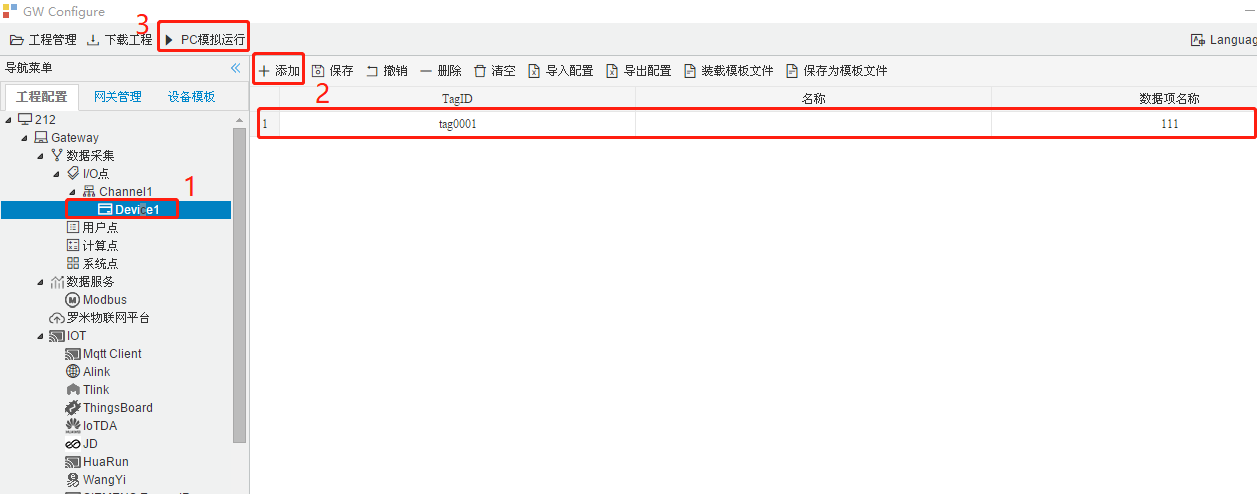
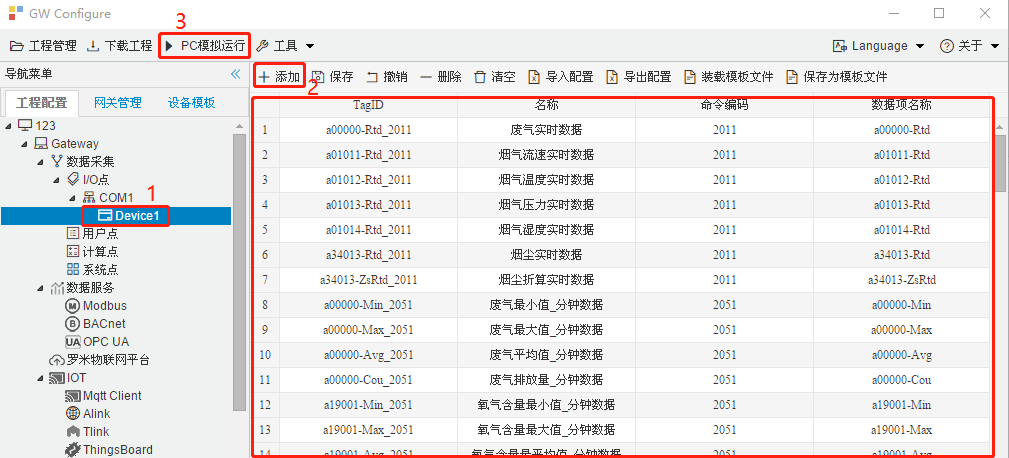
更新

diff --git a/通用标准/ModbusRTUClient/modbus点表编辑.md b/通用标准/ModbusRTUClient/modbus点表编辑.md
@@ -19,36 +19,50 @@
   - 4X (Holding Register) 模拟量、**支持读写**
 
   
-  | 功能码 | 名称           | 支持数据类型                                   | 对应Modbus数据区 |
-  | ------ | -------------- | ---------------------------------------------- | ---------------- |
-  | 0x01   | 读线圈状态     | bool                                           | 0X               |
-  | 0x02   | 读取输入状态   | bool                                           | 1X               |
-  | 0x03   | 读取保持寄存器 | bit、int8、int16、int32、int64、float、double  | 4X               |
-  | 0x04   | 读取输入寄存器 | bit、int8、int16、int32、int64、float、double  | 3X               |
-  | 0x05   | 强置单线圈     | bool                                           | 0x               |
-  | 0x06   | 预置单寄存器   | bit、int8、int16、int32、int64、float、double  | 4x               |
-  | 0x0F   | 强置多线圈     | bool                                           | 0x               |
-  | 0x10   | 强置多寄存器   | bit、int8、int16、int32、int64、float、double  | 4x               |
+  | 功能码 | 名称           | 支持数据类型                                                 | 对应Modbus数据区 |
+  | ------ | -------------- | ------------------------------------------------------------ | ---------------- |
+  | 0x01   | 读线圈状态     | bool                                                         | 0X               |
+  | 0x02   | 读取输入状态   | bool                                                         | 1X               |
+  | 0x03   | 读取保持寄存器 | bit、int8、int16、int32、int64、float、double、int16_bit、int4h(12-15)、int4sh(8-11)、int4sl(4-7)、int4l(0-3) | 4X               |
+  | 0x04   | 读取输入寄存器 | bit、int8、int16、int32、int64、float、double、int16_bit、int4h(12-15)、int4sh(8-11)、int4sl(4-7)、int4l(0-3) | 3X               |
+  | 0x05   | 强置单线圈     | bool                                                         | 0x               |
+  | 0x06   | 预置单寄存器   | bit、int8、int16、int32、int64、float、double、int16_bit、int4h(12-15)、int4sh(8-11)、int4sl(4-7)、int4l(0-3) | 4x               |
+  | 0x0F   | 强置多线圈     | bool                                                         | 0x               |
+  | 0x10   | 强置多寄存器   | bit、int8、int16、int32、int64、float、double、int16_bit、int4h(12-15)、int4sh(8-11)、int4sl(4-7)、int4l(0-3) | 4x               |
 
 
 
 - Modbus寄存器地址：寄存器的地址，地址范围0-65535，
 
-    - 注意取位操作时，，地址保留两位小数写成 X.XX ，bit位的操作范围00到15共16位。
+    - 注意取位操作时，地址保留两位小数写成 X.XX ，bit位的操作范围00到15共16位。
       
         取位示例：
       
-         地址为"1.05"，  读取寄存器地址为 1 的第6位  bit，取出的值为0；
+         地址为"1.05"，  读取寄存器地址为 1 的第5位  bit，取出的值为0；
 
-            地址为"1.12" ， 读取寄存器地址为 1 的第13位  bit，取出的值为1;
+            地址为"1.12" ， 读取寄存器地址为 1 的第12位  bit，取出的值为1;
 
     ![1557970984875](../../assets/bitpic.png)
+
+  位操作类型，只能在3X和4X中使用，示例如下：
+
+  **bit：** 如地址为"1.05"，读取寄存器地址为 1 的第6位 bit，按上表中数据取出的值为0。
+
+  **int16_bit：**可以读任意bit位的数据，位之间用逗号隔开，位可以是连续的（如00，01，02），也可以是不连续的（如00，03，06），如地址为"1.00,01,12,02,08"，读取寄存器地址为 1 的第00、01、02、08、12位 bit，值按寄存器高位到低位顺序排列，按上表中数据取出的值为11100。
+
+  **int4h(12-15)：**如地址为"1"，读取寄存器地址为 1 的第12位-15位 bit，按上表中数据取出的值为1001。
+
+  **int4sh(8-11)：**如地址为"1"，读取寄存器地址为 1 的第8位-11位 bit，按上表中数据取出的值为0101。
+
+  **int4sl(4-7)：**如地址为"1"，读取寄存器地址为 1 的第4位-7位 bit，按上表中数据取出的值为0101。
+
+  **int4l(0-3)：**如地址为"1"，读取寄存器地址为 1 的第0位-3位 bit，按上表中数据取出的值为0100。
 
 - 字节序：计算机体系结构中对于字节、字等的存储机制不同，所以需要对高低字节排序，用来解析数据。
 
   我们用1、2、3、4 对应两个寄存器中的4个字节：
 
-  - "Big-endian"表示高地址在前   1234
+  - "Big-endian"表示高地址在前 1234
   - "Little-endian"表示低地址在前 4321
   - "Big-endian byte swap"表示高地址在前，并交换字节顺序   2143
   - "Little-endian byte swap"表示低地址在前，并交换字节顺序  3412

diff --git a/电力行业标准/IEC104/编辑采集点表.md b/电力行业标准/IEC104/编辑采集点表.md
@@ -8,14 +8,18 @@
 - 地址：根据实际设备填写，如果地址是16进制，请转换成10进制后输入；
 - 倍率：通过放大或者缩小数据，可进行工程上的换算。根据需要填写，默认为1；
 
-| 序号 | 寄存器类型 |  地址范围   |
-| :--: | :--------: | :---------: |
-|  1   |  单点遥信  |   1~16384   |
-|  2   |  双点遥信  |   1~16384   |
-|  2   | 短浮点遥测 | 16385~20480 |
-|  3   | 归一化遥测 | 16385~20480 |
-|  4   | 标度化遥测 | 16385~20480 |
-|  5   |    遥脉    | 25601~26112 |
+| 序号 | 寄存器类型 |      描述（地址范围）      |
+| :--: | :--------: | :------------------------: |
+|  1   |  单点遥信  |    1H~4000H（1~16384）     |
+|  2   |  双点遥信  |    1H~4000H（1~16384）     |
+|  2   | 短浮点遥测 | 4001H~5000H（16385~20480） |
+|  3   | 归一化遥测 | 4001H~5000H（16385~20480） |
+|  4   | 标度化遥测 | 4001H~5000H（16385~20480） |
+|  5   |    遥脉    | 6401H~6600H（25601~26112） |
+|  6   |    遥控    | 6001H~6100H（24577~24832） |
+|  7   |    遥调    | 6201~6400H（25089~25600）  |
+
+
 
 如下图所示，添加“单点遥信”，“标度化遥信”，“遥脉”三个采集点，地址要在表格对应范围之内
 

diff --git a/通用标准/环保212协议串口与网口监听/编辑采集点表.md b/通用标准/环保212协议串口与网口监听/编辑采集点表.md
@@ -8,7 +8,7 @@
 
 ![](assets/212串口参数.png)
 
-新建一个设备，然后在设备里随便添加一个点，再点“PC模拟运行”。
+新建一个设备，然后在设备里添加采集点，再点“PC模拟运行”。
 
 ![](assets/添加点并运行工程.png)
 
@@ -32,9 +32,9 @@
 
 - TagID：可自定义，默认为  tag0001,tag0002依次递增，根据需要修改，设备采集点表内，TagID不可重复；
 - 名称：可自定义，描述信息，根据需要填写，可不填；
+- 命令编码：可以自定义，常用编码 2011实时数据，2051分钟数据，2061小时数据，2031日数据，其他编码详见《污染物在线监控（监测）系统数据传输标准(HJ212-2017代替HJT212-2005)》
 - 数据项名称：根据上传报文，填入需要显示的字段名，字段名根据《污染物在线监控（监测）系统数据传输标准》填写，比较常用的格式是xxxxxx-Rtd，表示实时数据，xxxxxx是污染物编码；或者根据上送报文来填写，等号左边对应**数据项名称**。
 
 如下图所示
 
 ![](assets/添加tag点.jpg)
-

diff --git a/通用标准/OPCDAClient/编辑采集点表.md b/通用标准/OPCDAClient/编辑采集点表.md
@@ -25,3 +25,37 @@
 ![](assets/添加tag点.png)
 
 <center>图2-11-7.2 添加tag点配置</center>
+
+
+
+## 名称列表不显示问题的处理方法
+
+如下图所有，名称栏没有显示出点的列表，这时就需要手动添加采集点。
+
+![](assets/OPCDA10.png)
+
+可以通过OPCDA工具，来获取采集点名称，按下列图片步骤操作。
+
+![](assets/OPCDA01.png)
+
+![](assets/OPCDA02.png)
+
+![](assets/OPCDA03.png)
+
+![](assets/OPCDA04.png)
+
+![](assets/OPCDA05.png)
+
+![](assets/OPCDA06.png)
+
+![](assets/OPCDA07.png)
+
+![](assets/OPCDA08.png)
+
+用记事本打开导出的XML文件，可以看到OPCDA的采集点名称。
+
+![](assets/OPCDA09.png)
+
+将点名称处理后，放进EXCEL里，然后再导入配置工具中。
+
+![](assets/OPCDA11.png)

diff --git a/通用标准/ModbusTCPClient/编辑采集点表.md b/通用标准/ModbusTCPClient/编辑采集点表.md
@@ -32,10 +32,11 @@
 
   - 数据类型：有bool、bit、uint16、int16、uint32、int32、float、double、uint64、int64；
 
-  - 读取类型是"uint16"或者"int16",可以进行多取位操作
+  - 读取类型是"uint16"或者"int16"，可以进行多取位操作
 
-    - 地址格式为 "X.0,1,2,3,4",如下图 所示01234 值为 10100，输出值为 20
-  - 地址格式为 "X.12,13,14,15",如下图 所示01234 值为 1001，输出值为 9
+    地址格式为 "X.00,01,02,03,04"，如下图 所示01234 值为 10100，输出值为 20
+  
+    地址格式为 "X.12,13,14,15"，如下图 所示01234 值为 1001，输出值为 9
   
 - 读取类型是"**bit**"，地址保留两位小数。例如 :0-7为第1个字节  8-15位第2个字节
   

diff --git a/智能照明/明上智能/编辑采集点表.md b/智能照明/明上智能/编辑采集点表.md
@@ -40,7 +40,7 @@
 
           地址为"1.12" ， 读取寄存器地址为 1 的第13位  bit，取出的值为1;
 
-  ![1557970984875](E:/githubbook/protocolBook/assets/bitpic.png)
+  ![](../../assets/bitpic.png)
 
 - 字节序：计算机体系结构中对于字节、字等的存储机制不同，所以需要对高低字节排序，用来解析数据。
 
